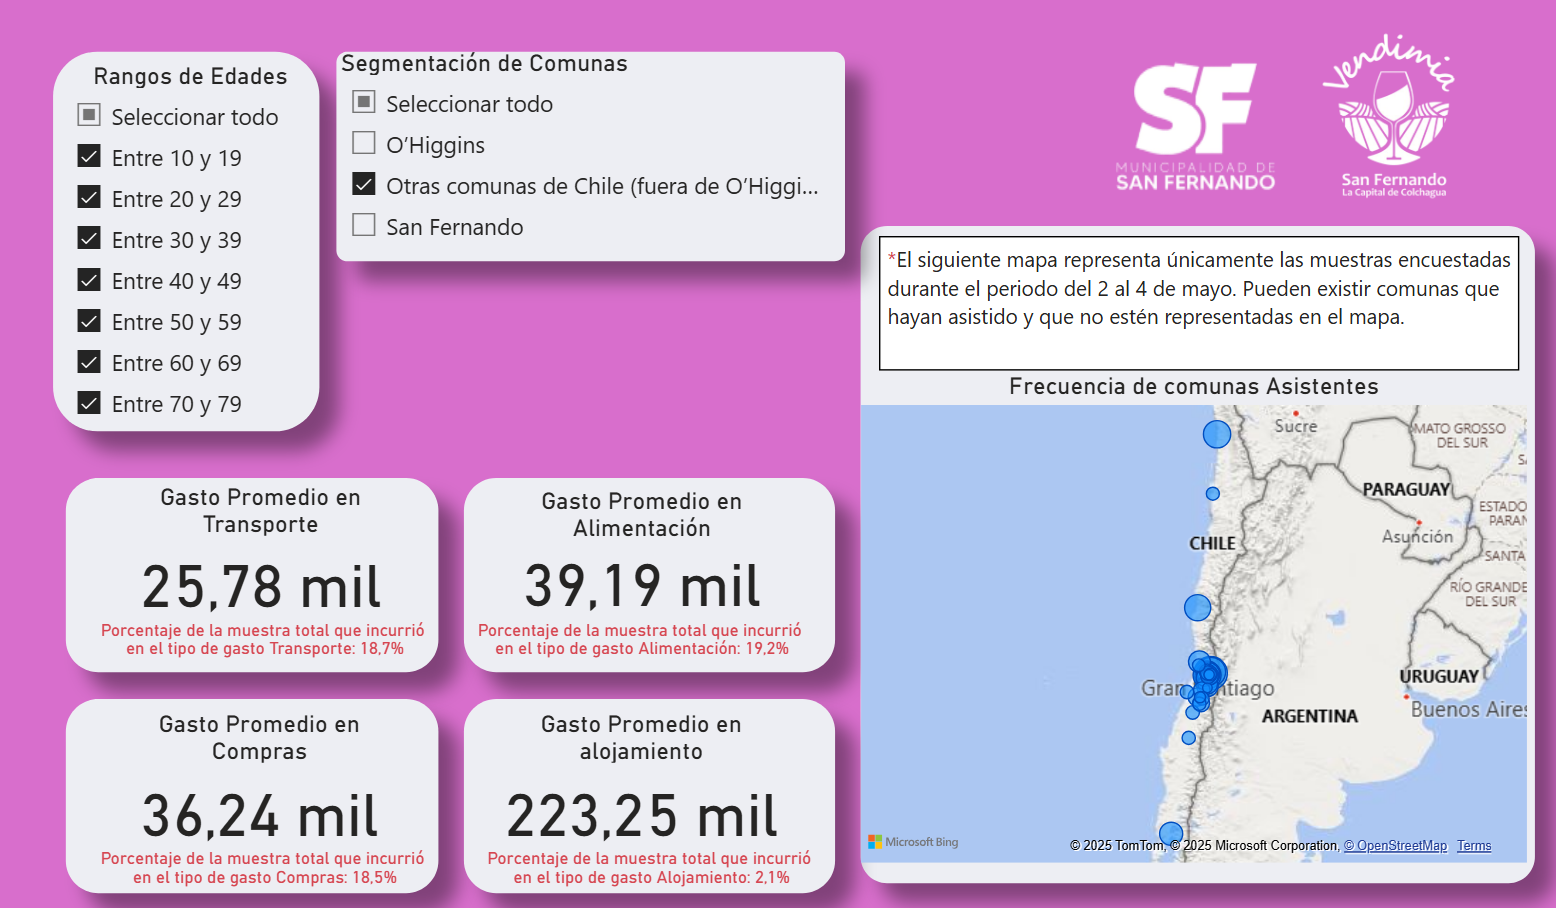
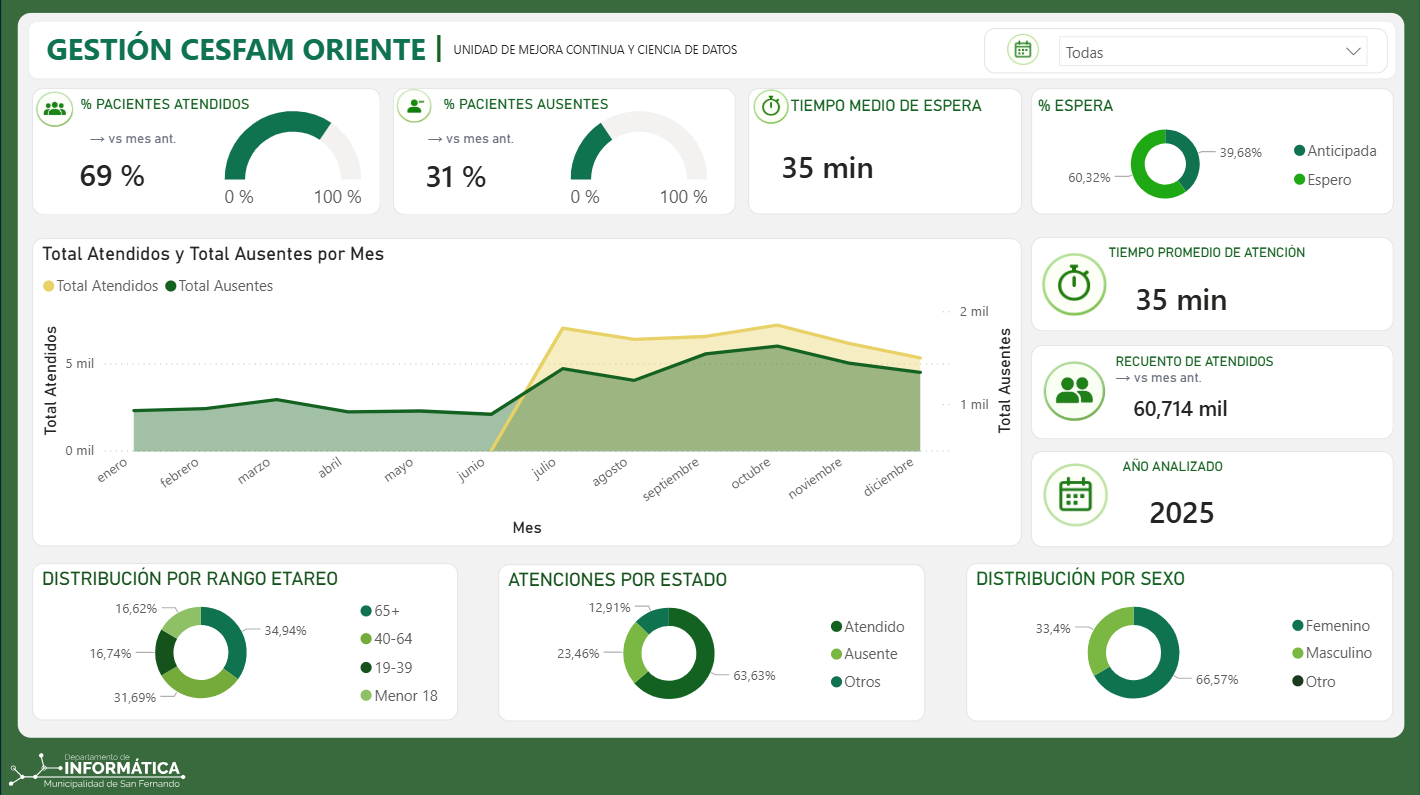
update links - add new power bi

diff --git a/index.html b/index.html
@@ -370,7 +370,7 @@
                                     <img src="/assets/images/projects/LOGO_MUNI_DA_CONFIANZA_1_page-0001.jpg" class="img-fluid icon" alt="PfpFinder Logo">
                                 </div>
                                 <div class="col-7 p-0">
-                                    <a href="https://datos.munisanfernando.cl/services/consumo-electrico-san-fernando-1" class="card-title title" target="_blank">Analisis de Consumo electrico</a>
+                                    <a href="https://app.powerbi.com/view?r=eyJrIjoiOWQxNGZmODktNzVkOS00NDkwLTgyMzYtZDBjYThhZjE2MGQxIiwidCI6IjUzMGM5NWRiLTMzMTEtNDI3Mi1hYzcxLTgyZmJhNjAwZTBiMSIsImMiOjR9" class="card-title title" target="_blank">Analisis de Consumo electrico</a>
                                     <p class="stacks m-0">PowerBi</p>
                                 </div>
                                 <div class="col-3 align-middle">
@@ -378,12 +378,13 @@
                                 </div>
                             </div>
                         </div>
+
                         <div class="description-container">
                             <p class="description">Análisis del consumo eléctrico en la ciudad de San Fernando, ago. 2023 - jul. 2024.</p>
                         </div>
                         <div class="banner-container">
                             <div class="overlay">
-                                <a href="https://datos.munisanfernando.cl/services/consumo-electrico-san-fernando-1" class="btn" target="_blank"><i class="bi bi-arrow-up-right-circle-fill"></i></a>
+                                <a href="https://app.powerbi.com/view?r=eyJrIjoiOWQxNGZmODktNzVkOS00NDkwLTgyMzYtZDBjYThhZjE2MGQxIiwidCI6IjUzMGM5NWRiLTMzMTEtNDI3Mi1hYzcxLTgyZmJhNjAwZTBiMSIsImMiOjR9" class="btn" target="_blank"><i class="bi bi-arrow-up-right-circle-fill"></i></a>
                             </div>
                             <img src="/assets/images/projects/ConsumoElectrico.webp" class="card-img-top banner" alt="PfpFinder Banner">
                         </div>
@@ -398,7 +399,8 @@
                                     <img src="/assets/images/projects/LOGO_MUNI_DA_CONFIANZA_1_page-0001.jpg" class="img-fluid icon" alt="BikeKart Template Logo">
                                 </div>
                                 <div class="col-7 p-0">
-                                    <a href="https://datos.munisanfernando.cl/services/analisis-festival-de-la-vendimia-2025-1/" class="card-title title" target="_blank">Análisis Festival de la Vendimia - San Fernando</a>
+                                    <a href="https://app.powerbi.com/view?r=eyJrIjoiNjdmY2Y2NWItMmQ2Ny00MzIyLWE3MzYtNTI3Njc1YWIzZTg1IiwidCI6ImZiNGY0MjI1LTBkM2QtNDgwYi05ZDIxLTEyNjY0YWU4NDBkMSIsImMiOjR9
+                                    " class="card-title title" target="_blank">Análisis de nivel de atención, Cesfam Oriente - San Fernando</a>
                                     <p class="stacks m-0">PowerBi</p>
                                 </div>
                                 <div class="col-3 align-middle">
@@ -407,11 +409,12 @@
                             </div>
                         </div>
                         <div class="description-container">
-                            <p class="description">Análisis perceptivo y de impacto del festival de la Vendimia en San Fernando 2025.</p>
+                            <p class="description">Análisis de metrcias asociadas a tiempos de espera y nivel de atención del Cesfam Oriente de San Fernando 2025.</p>
                         </div>
                         <div class="banner-container">
                             <div class="overlay">
-                                <a href="https://datos.munisanfernando.cl/services/analisis-festival-de-la-vendimia-2025-1/" class="btn" target="_blank"><i class="bi bi-arrow-up-right-circle-fill"></i></a>
+                                <a href="https
+                                " class="btn" target="_blank"><i class="bi bi-arrow-up-right-circle-fill"></i></a>
                             </div>
                             <img src="/assets/images/projects/vendimia_analisis.png" class="card-img-top banner" alt="BikeKart Banner">
                         </div>